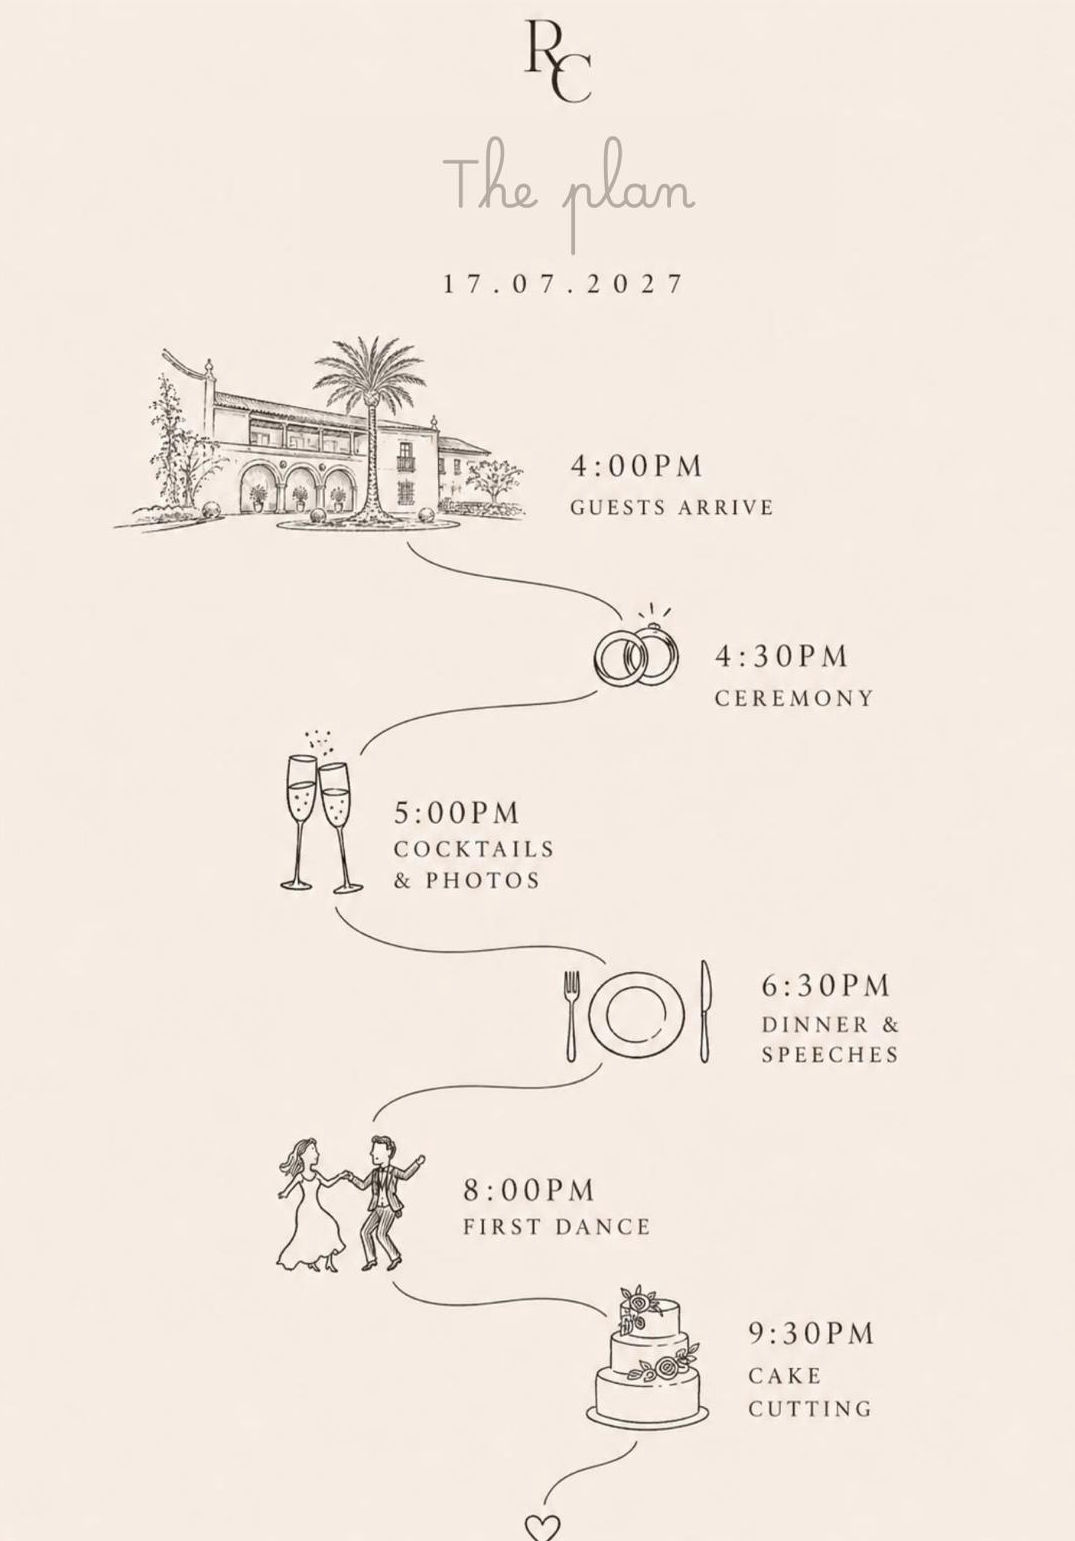
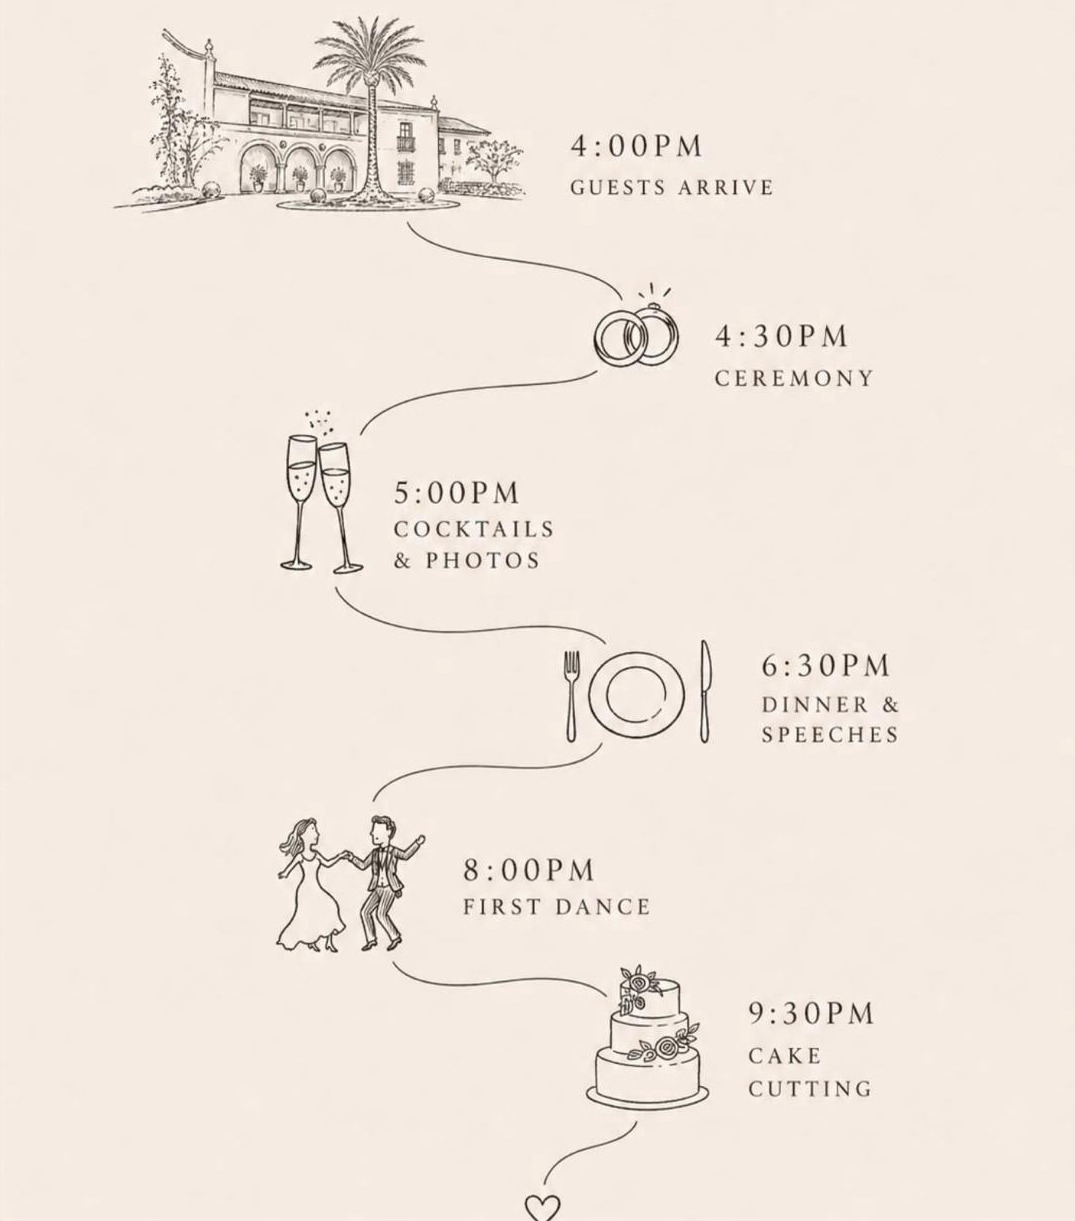
Crop redundant header off the Saturday plan image, match section bg
The plan image had its own "RC" monogram, "The plan" title, and date
baked in at the top — all redundant with the page's own "Saturday
17.07.2027" heading above it. Cropped it off so the image starts
right at the venue illustration. Also gave the section a fixed
background sampled directly from the image's own cardstock tone so
there's no visible edge around it, in either theme.

diff --git a/schedule.html b/schedule.html
@@ -80,7 +80,7 @@
   </section>
 
   <!-- ============================= SATURDAY — THE PLAN ============================= -->
-  <section class="schedule section schedule--blush">
+  <section class="schedule section schedule--plan">
     <div class="container" style="text-align:center;">
       <p class="eyebrow" data-i18n="weekend.sat.date">Saturday 17.07.2027</p>
       <h2 class="sr-only">The Plan — Saturday 17 July 2027: 4:00pm guests arrive, 4:30pm ceremony, 5:00pm cocktails &amp; photos, 6:30pm dinner &amp; speeches, 8:00pm first dance, 9:30pm cake cutting</h2>

diff --git a/css/style.css b/css/style.css
@@ -961,6 +961,11 @@ ul { margin: 0; padding: 0; list-style: none; }
 
 .schedule--blush { background: var(--color-blush); }
 
+/* Matches the plan graphic's own cardstock tone exactly (sampled from the
+   image), so the section has no visible edge around it — fixed regardless
+   of theme, like other physical-object images on the site. */
+.schedule--plan { background: #F6EBE3; }
+
 .schedule-plan-image {
   display: block;
   max-width: 480px;
